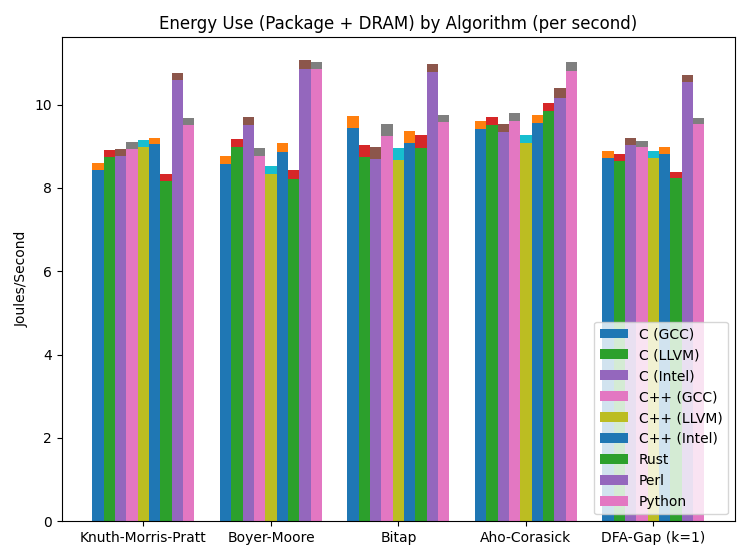
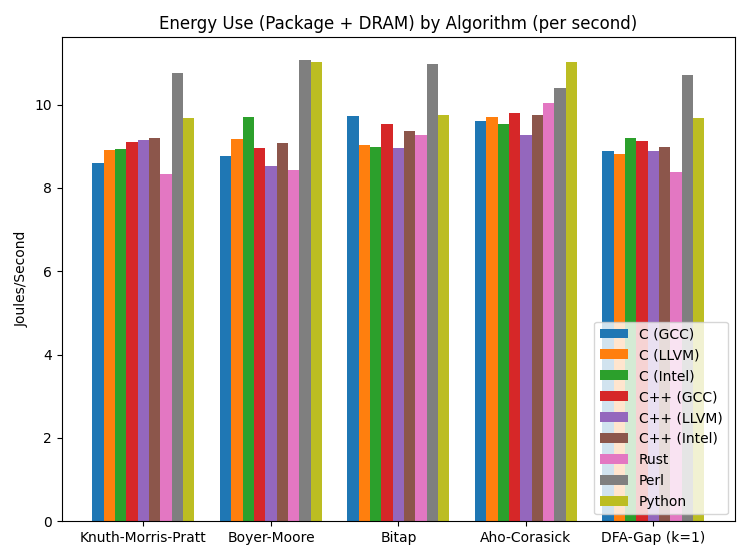
Simplify the power-per-second chart

diff --git a/src/util/process_results.py b/src/util/process_results.py
@@ -550,10 +550,13 @@ def power_graph(
             dtype=float
         )
 
+    combined = {}
+    for lang in languages:
+        combined[lang] = package[lang] + dram[lang]
+
     if average:
         for lang in languages:
-            package[lang] /= runtimes[lang]
-            dram[lang] /= runtimes[lang]
+            combined[lang] /= runtimes[lang]
 
     if large:
         fig, ax = plt.subplots(figsize=(7.5, 5.6), dpi=100.0)
@@ -561,9 +564,8 @@ def power_graph(
         fig, ax = plt.subplots()
 
     for idx, lang in enumerate(languages):
-        ax.bar(x + steps[idx], package[lang], step,
+        ax.bar(x + steps[idx], combined[lang], step,
                label=f"{LANGUAGE_LABELS[lang]}")
-        ax.bar(x + steps[idx], dram[lang], step, bottom=package[lang])
 
     ax.set_xticks(
         x + step * step_off, map(lambda a: ALGORITHM_LABELS[a], algorithms)
